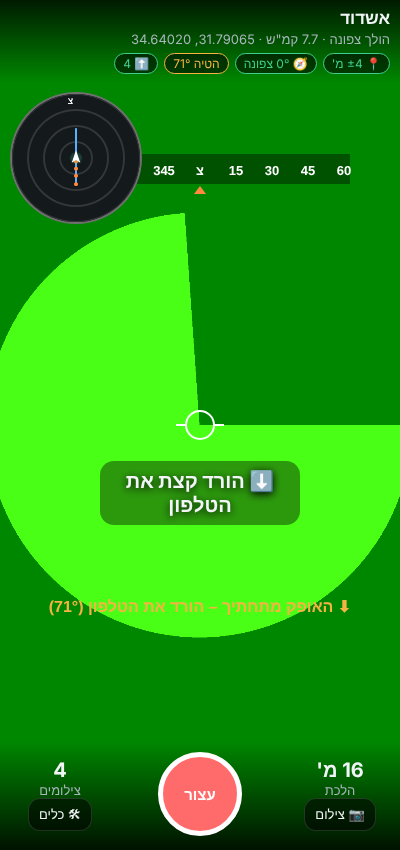
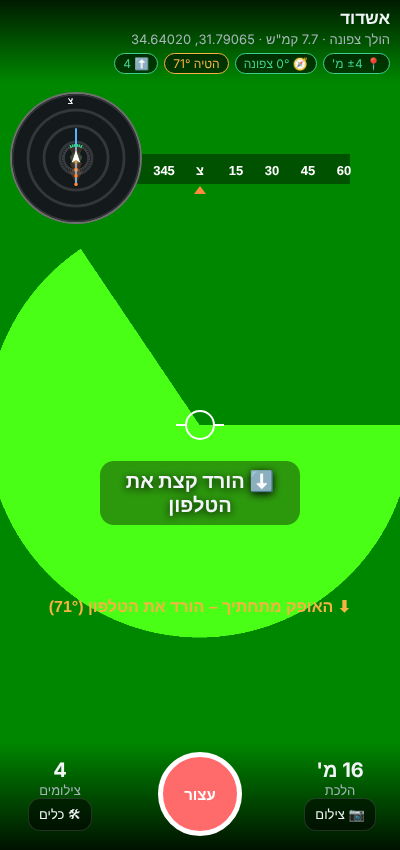
סורק: מניפות כיוון צילום ומד כיסוי 360° במפה; פחות צילומי סיבוב מיותרים; המתנה לרגע יציב לפני צילום
Claude-Session: https://claude.ai/code/session_013gymVRFWQY3BMwXofuQ6Uf

Changed region(s): [[0.21, 0.2447, 0.51, 0.4894], [0.15, 0.1529, 0.21, 0.2141]]

diff --git a/twin/scan/scan-site.html b/twin/scan/scan-site.html
@@ -213,7 +213,15 @@ function drawMap(){var c=$('mapc'),g=c.getContext('2d'),W=c.width,s=W/2;g.fillSt
   var sc=s/40;   // 40 מטר לרדיוס
   g.strokeStyle='#ffffff22';for(var r=10;r<=40;r+=10){g.beginPath();g.arc(s,s,r*sc,0,7);g.stroke();}
   g.strokeStyle='#5ab0ff';g.lineWidth=4;g.beginPath();S.track.forEach(function(p,i){var d=enu(S.pos,p);var x=s+d.x*sc,y=s-d.y*sc;i?g.lineTo(x,y):g.moveTo(x,y);});g.stroke();
-  S.shotPts&&S.shotPts.forEach(function(p){var d=enu(S.pos,p);g.fillStyle='#ff8a3d';g.beginPath();g.arc(s+d.x*sc,s-d.y*sc,4,0,7);g.fill();});
+  // כל צילום: נקודה + "מניפה" לכיוון שצילמת (שדה ראייה ≈ 53° לרוחב בצילום לאורך)
+  var FOV=2*Math.atan(12/((+$('mF').value)||24))/R,cov=new Array(36).fill(0);
+  S.shotPts&&S.shotPts.forEach(function(p){var d=enu(S.pos,p),x=s+d.x*sc,y=s-d.y*sc;
+    if(p.h!=null){var a0=(p.h-FOV/2-90)*R,a1=(p.h+FOV/2-90)*R;g.fillStyle='#ff8a3d30';g.beginPath();g.moveTo(x,y);g.arc(x,y,9*sc,a0,a1);g.closePath();g.fill();
+      if(Math.hypot(d.x,d.y)<8){for(var k=Math.floor((p.h-FOV/2)/10);k<=Math.floor((p.h+FOV/2)/10);k++)cov[((k%36)+36)%36]=1;}}
+    g.fillStyle='#ff8a3d';g.beginPath();g.arc(x,y,3.5,0,7);g.fill();});
+  // טבעת כיסוי 360° סביבך: ירוק = כיוון שכבר צולם מכאן (עד 8 מ'), אפור = חסר
+  var cn=0;for(var k=0;k<36;k++){cn+=cov[k];g.strokeStyle=cov[k]?'#3ecf8e':'#ffffff30';g.lineWidth=6;g.beginPath();g.arc(s,s,26,(k*10-90)*R+0.02,(k*10+10-90)*R-0.02);g.stroke();}
+  S.cov=cn*10;g.fillStyle='#fff';g.font='bold 13px sans-serif';g.fillText(S.cov+'°',W-46,W-10);
   g.fillStyle='#3ecf8e33';g.beginPath();g.arc(s,s,Math.max(4,S.pos.acc*sc),0,7);g.fill();
   if(S.head!=null){g.save();g.translate(s,s);g.rotate(S.head*R);g.fillStyle='#fff';g.beginPath();g.moveTo(0,-16);g.lineTo(9,10);g.lineTo(0,4);g.lineTo(-9,10);g.closePath();g.fill();g.restore();}
   g.fillStyle='#fff';g.font='bold 18px sans-serif';g.fillText('צ',s-6,20);}
@@ -232,8 +240,10 @@ function autoShoot(h){
   var every=+$('every').value||4,now=Date.now(),need=false,why='';
   if(!S.lastShotPos){need=true;why='התחלה';}
   else{var d=enu(S.lastShotPos,S.pos),m=Math.hypot(d.x,d.y);if(m>=every){need=true;why=Math.round(m)+' מ\'';}
-    else if(!S.car&&S.head!=null&&S.lastShotHead!=null&&Math.abs(((S.head-S.lastShotHead+540)%360)-180)>=25&&now-S.lastShotT>1200){need=true;why='סיבוב';}}
-  if(need&&now-S.lastShotT>900)shoot('walk',why);}
+    else if(!S.car&&S.head!=null&&S.lastShotHead!=null&&Math.abs(((S.head-S.lastShotHead+540)%360)-180)>=40&&now-S.lastShotT>2000&&S.gyro<25){need=true;why='סיבוב';}}
+  if(!need)S.needT=0;
+  if(need&&S.gyro>28&&!S.car&&now-(S.needT||(S.needT=now))<1500)return;   // מחכים רגע שקט (עד 1.5 ש') כדי שהתמונה לא תיטשטש
+  if(need&&now-S.lastShotT>900){S.needT=0;shoot('walk',why);}}
 function meta(kind,why){return{kind:kind,why:why,when:new Date().toISOString(),where:$('where').value,pos:S.pos,gps:S.gps,heading:S.head,heading_abs:S.headAbs,course:S.course,speed:S.speed,
   car:S.car,heading_best:S.car&&S.course!=null?S.course:S.head,heading_src:S.car&&S.course!=null?'gps':'compass',
   hold:hold(),gyro:S.gyro,steps:S.steps,dist:S.dist,orientation:S.ori,video:S.track_?null:(S.vt?S.vt.getSettings():null),demo:S.demo};}
@@ -241,7 +251,7 @@ function grab(){return still();}   // צילום מתוך הווידאו: בלי
 function still(){return new Promise(function(res){var v=$('vid'),c=document.createElement('canvas');c.width=v.videoWidth||1280;c.height=v.videoHeight||720;var g=c.getContext('2d');
   if(v.videoWidth)g.drawImage(v,0,0);else{g.fillStyle='#456';g.fillRect(0,0,c.width,c.height);g.fillStyle='#fff';g.font='60px sans-serif';g.fillText('DEMO '+S.shots,80,200);}
   c.toBlob(res,'image/jpeg',0.85);});}
-function shoot(kind,why){var m=meta(kind,why);S.lastShotPos={lat:S.pos.lat,lon:S.pos.lon};S.lastShotT=Date.now();S.lastShotHead=S.head;S.shotPts=(S.shotPts||[]).concat([S.lastShotPos]).slice(-300);
+function shoot(kind,why){var m=meta(kind,why);S.lastShotPos={lat:S.pos.lat,lon:S.pos.lon};S.lastShotT=Date.now();S.lastShotHead=S.head;var hb=S.car&&S.course!=null?S.course:S.head;S.shotPts=(S.shotPts||[]).concat([{lat:S.lastShotPos.lat,lon:S.lastShotPos.lon,h:hb}]).slice(-300);
   S.shots++;var f=$('flash');f.style.opacity=.35;setTimeout(function(){f.style.opacity=0;},120);if(navigator.vibrate)navigator.vibrate(25);
   grab().then(function(b){S.lastShot={blob:b,meta:{tilt:m.hold,pitch:m.hold&&m.hold.pitch}};enqueue(('000'+S.shots).slice(-4)+'_'+kind+'.jpg',b,m);log('צילום '+S.shots+' ('+why+')');});}
 

diff --git a/twin/scan/walk-src.html b/twin/scan/walk-src.html
@@ -213,7 +213,15 @@ function drawMap(){var c=$('mapc'),g=c.getContext('2d'),W=c.width,s=W/2;g.fillSt
   var sc=s/40;   // 40 מטר לרדיוס
   g.strokeStyle='#ffffff22';for(var r=10;r<=40;r+=10){g.beginPath();g.arc(s,s,r*sc,0,7);g.stroke();}
   g.strokeStyle='#5ab0ff';g.lineWidth=4;g.beginPath();S.track.forEach(function(p,i){var d=enu(S.pos,p);var x=s+d.x*sc,y=s-d.y*sc;i?g.lineTo(x,y):g.moveTo(x,y);});g.stroke();
-  S.shotPts&&S.shotPts.forEach(function(p){var d=enu(S.pos,p);g.fillStyle='#ff8a3d';g.beginPath();g.arc(s+d.x*sc,s-d.y*sc,4,0,7);g.fill();});
+  // כל צילום: נקודה + "מניפה" לכיוון שצילמת (שדה ראייה ≈ 53° לרוחב בצילום לאורך)
+  var FOV=2*Math.atan(12/((+$('mF').value)||24))/R,cov=new Array(36).fill(0);
+  S.shotPts&&S.shotPts.forEach(function(p){var d=enu(S.pos,p),x=s+d.x*sc,y=s-d.y*sc;
+    if(p.h!=null){var a0=(p.h-FOV/2-90)*R,a1=(p.h+FOV/2-90)*R;g.fillStyle='#ff8a3d30';g.beginPath();g.moveTo(x,y);g.arc(x,y,9*sc,a0,a1);g.closePath();g.fill();
+      if(Math.hypot(d.x,d.y)<8){for(var k=Math.floor((p.h-FOV/2)/10);k<=Math.floor((p.h+FOV/2)/10);k++)cov[((k%36)+36)%36]=1;}}
+    g.fillStyle='#ff8a3d';g.beginPath();g.arc(x,y,3.5,0,7);g.fill();});
+  // טבעת כיסוי 360° סביבך: ירוק = כיוון שכבר צולם מכאן (עד 8 מ'), אפור = חסר
+  var cn=0;for(var k=0;k<36;k++){cn+=cov[k];g.strokeStyle=cov[k]?'#3ecf8e':'#ffffff30';g.lineWidth=6;g.beginPath();g.arc(s,s,26,(k*10-90)*R+0.02,(k*10+10-90)*R-0.02);g.stroke();}
+  S.cov=cn*10;g.fillStyle='#fff';g.font='bold 13px sans-serif';g.fillText(S.cov+'°',W-46,W-10);
   g.fillStyle='#3ecf8e33';g.beginPath();g.arc(s,s,Math.max(4,S.pos.acc*sc),0,7);g.fill();
   if(S.head!=null){g.save();g.translate(s,s);g.rotate(S.head*R);g.fillStyle='#fff';g.beginPath();g.moveTo(0,-16);g.lineTo(9,10);g.lineTo(0,4);g.lineTo(-9,10);g.closePath();g.fill();g.restore();}
   g.fillStyle='#fff';g.font='bold 18px sans-serif';g.fillText('צ',s-6,20);}
@@ -232,8 +240,10 @@ function autoShoot(h){
   var every=+$('every').value||4,now=Date.now(),need=false,why='';
   if(!S.lastShotPos){need=true;why='התחלה';}
   else{var d=enu(S.lastShotPos,S.pos),m=Math.hypot(d.x,d.y);if(m>=every){need=true;why=Math.round(m)+' מ\'';}
-    else if(!S.car&&S.head!=null&&S.lastShotHead!=null&&Math.abs(((S.head-S.lastShotHead+540)%360)-180)>=25&&now-S.lastShotT>1200){need=true;why='סיבוב';}}
-  if(need&&now-S.lastShotT>900)shoot('walk',why);}
+    else if(!S.car&&S.head!=null&&S.lastShotHead!=null&&Math.abs(((S.head-S.lastShotHead+540)%360)-180)>=40&&now-S.lastShotT>2000&&S.gyro<25){need=true;why='סיבוב';}}
+  if(!need)S.needT=0;
+  if(need&&S.gyro>28&&!S.car&&now-(S.needT||(S.needT=now))<1500)return;   // מחכים רגע שקט (עד 1.5 ש') כדי שהתמונה לא תיטשטש
+  if(need&&now-S.lastShotT>900){S.needT=0;shoot('walk',why);}}
 function meta(kind,why){return{kind:kind,why:why,when:new Date().toISOString(),where:$('where').value,pos:S.pos,gps:S.gps,heading:S.head,heading_abs:S.headAbs,course:S.course,speed:S.speed,
   car:S.car,heading_best:S.car&&S.course!=null?S.course:S.head,heading_src:S.car&&S.course!=null?'gps':'compass',
   hold:hold(),gyro:S.gyro,steps:S.steps,dist:S.dist,orientation:S.ori,video:S.track_?null:(S.vt?S.vt.getSettings():null),demo:S.demo};}
@@ -241,7 +251,7 @@ function grab(){return still();}   // צילום מתוך הווידאו: בלי
 function still(){return new Promise(function(res){var v=$('vid'),c=document.createElement('canvas');c.width=v.videoWidth||1280;c.height=v.videoHeight||720;var g=c.getContext('2d');
   if(v.videoWidth)g.drawImage(v,0,0);else{g.fillStyle='#456';g.fillRect(0,0,c.width,c.height);g.fillStyle='#fff';g.font='60px sans-serif';g.fillText('DEMO '+S.shots,80,200);}
   c.toBlob(res,'image/jpeg',0.85);});}
-function shoot(kind,why){var m=meta(kind,why);S.lastShotPos={lat:S.pos.lat,lon:S.pos.lon};S.lastShotT=Date.now();S.lastShotHead=S.head;S.shotPts=(S.shotPts||[]).concat([S.lastShotPos]).slice(-300);
+function shoot(kind,why){var m=meta(kind,why);S.lastShotPos={lat:S.pos.lat,lon:S.pos.lon};S.lastShotT=Date.now();S.lastShotHead=S.head;var hb=S.car&&S.course!=null?S.course:S.head;S.shotPts=(S.shotPts||[]).concat([{lat:S.lastShotPos.lat,lon:S.lastShotPos.lon,h:hb}]).slice(-300);
   S.shots++;var f=$('flash');f.style.opacity=.35;setTimeout(function(){f.style.opacity=0;},120);if(navigator.vibrate)navigator.vibrate(25);
   grab().then(function(b){S.lastShot={blob:b,meta:{tilt:m.hold,pitch:m.hold&&m.hold.pitch}};enqueue(('000'+S.shots).slice(-4)+'_'+kind+'.jpg',b,m);log('צילום '+S.shots+' ('+why+')');});}
 

diff --git a/twin/scan/README.md b/twin/scan/README.md
@@ -14,3 +14,5 @@
 - תור ההעלאה נשמר בטלפון (IndexedDB). סגירת הדף לא מוחקת צילומים; בפתיחה הבאה הם ממשיכים לעלות. 2 העלאות במקביל, אזהרה בסגירה.
 - מצב רכב: מהירות GPS מעל 15 קמ"ש במשך 2.5 ש' → בלי ספירת צעדים, כיוון לפי ה-GPS (המצפן משתגע ברכב), בלי צילומי "סיבוב", סף רעידות גבוה יותר. לכל צילום נוספו car, heading_best, heading_src.
 - `test-car-queue.js` – בדיקת מצב רכב + תור ששורד סגירה. חובה להריץ יחד עם test-walk.js.
+- מפה: לכל צילום "מניפה" לכיוון שצולם (שדה ראייה מהמוקד), וטבעת כיסוי 360° סביבך – ירוק = כיוון שכבר צולם מכאן (עד 8 מ'), אפור = חסר.
+- צילומי "סיבוב": רק מעל 40°, אחרי 2 ש', וכשהטלפון יציב. כשהיד רועדת – מחכים עד 1.5 ש' לרגע שקט (פחות טשטוש).
